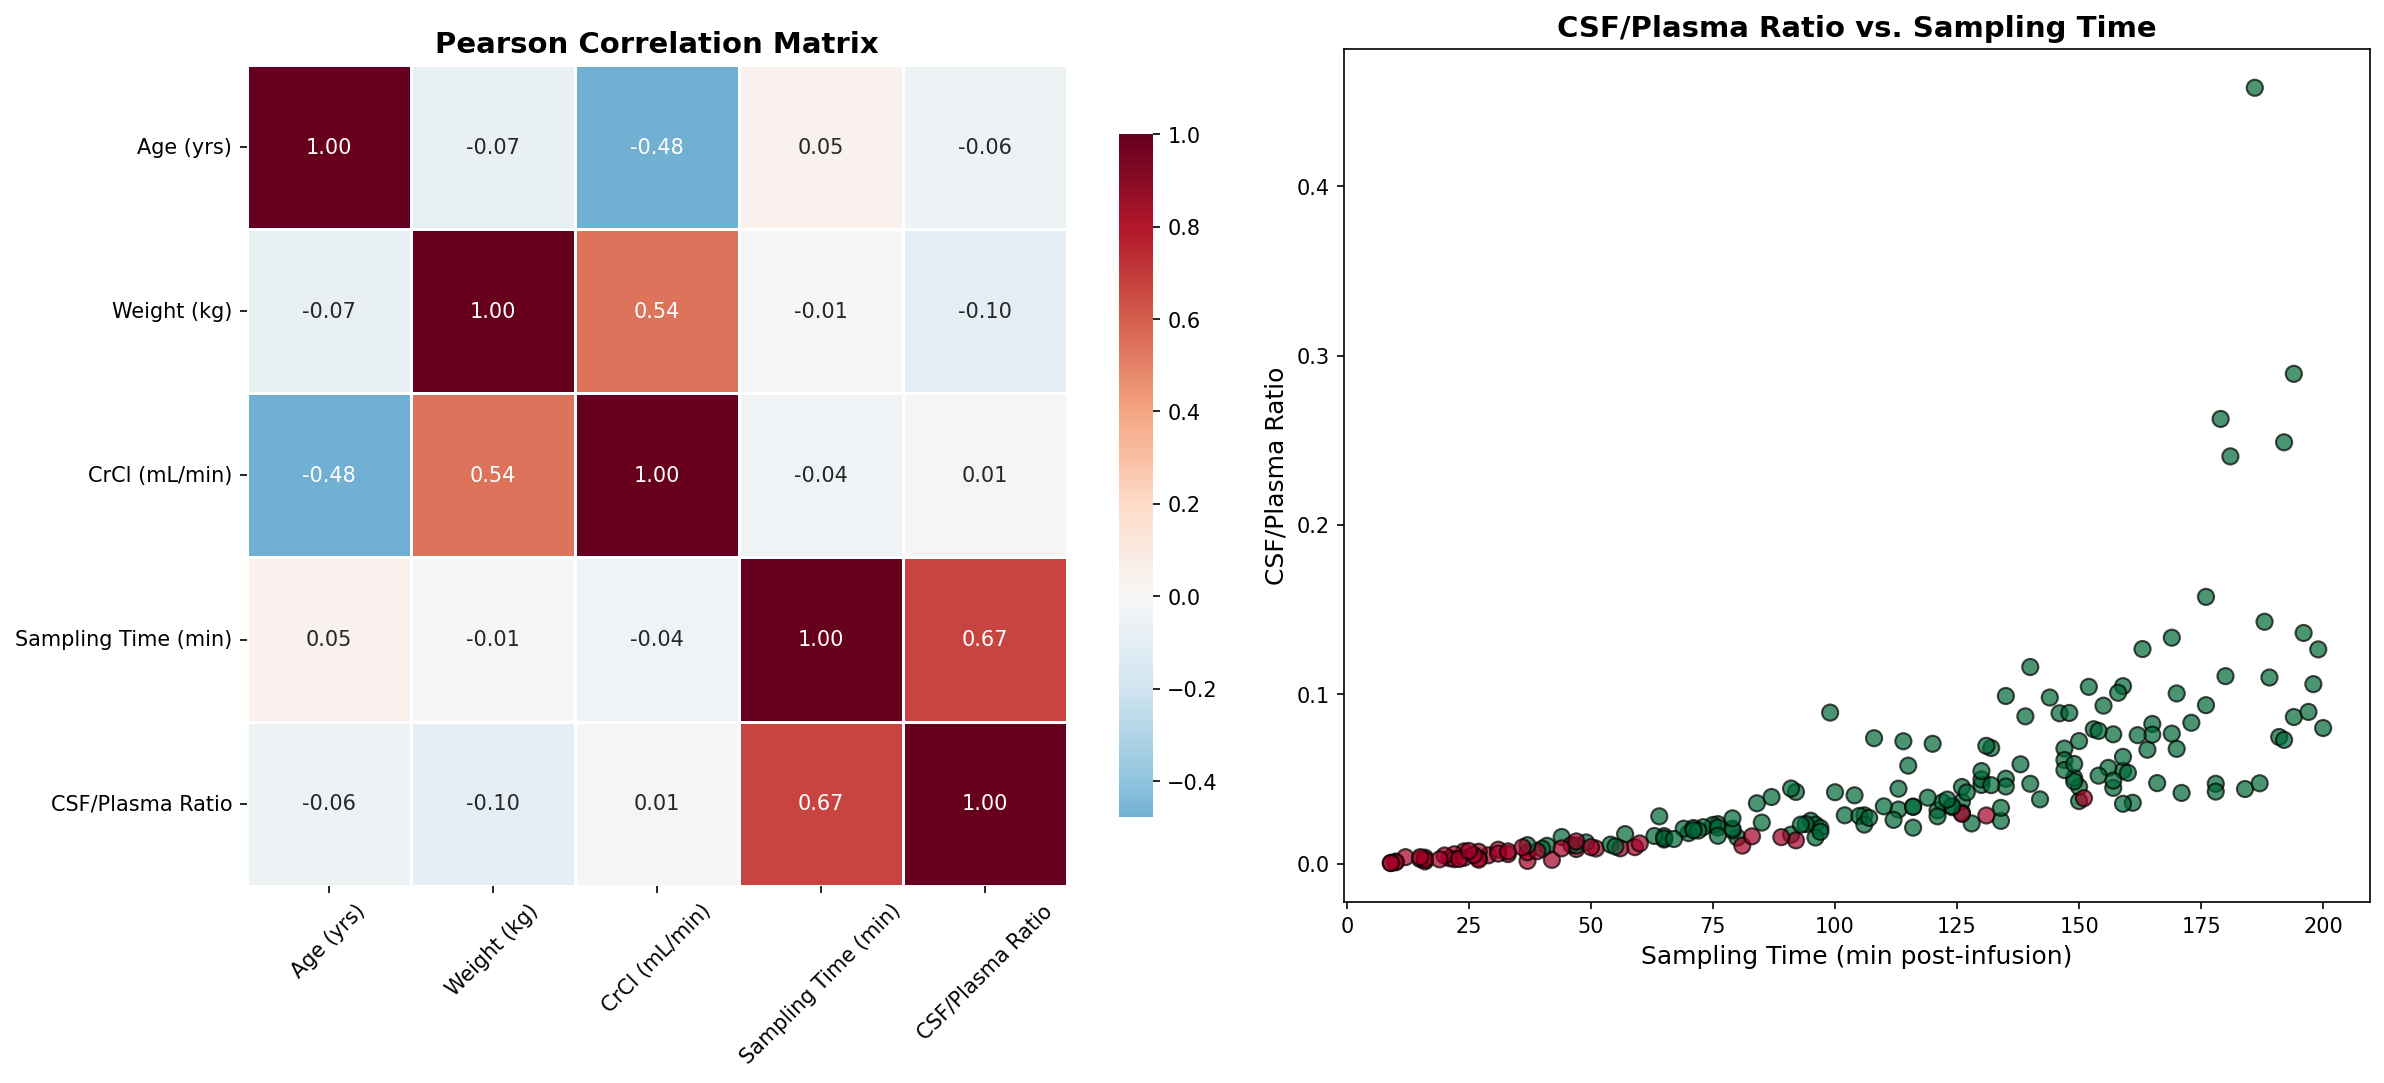
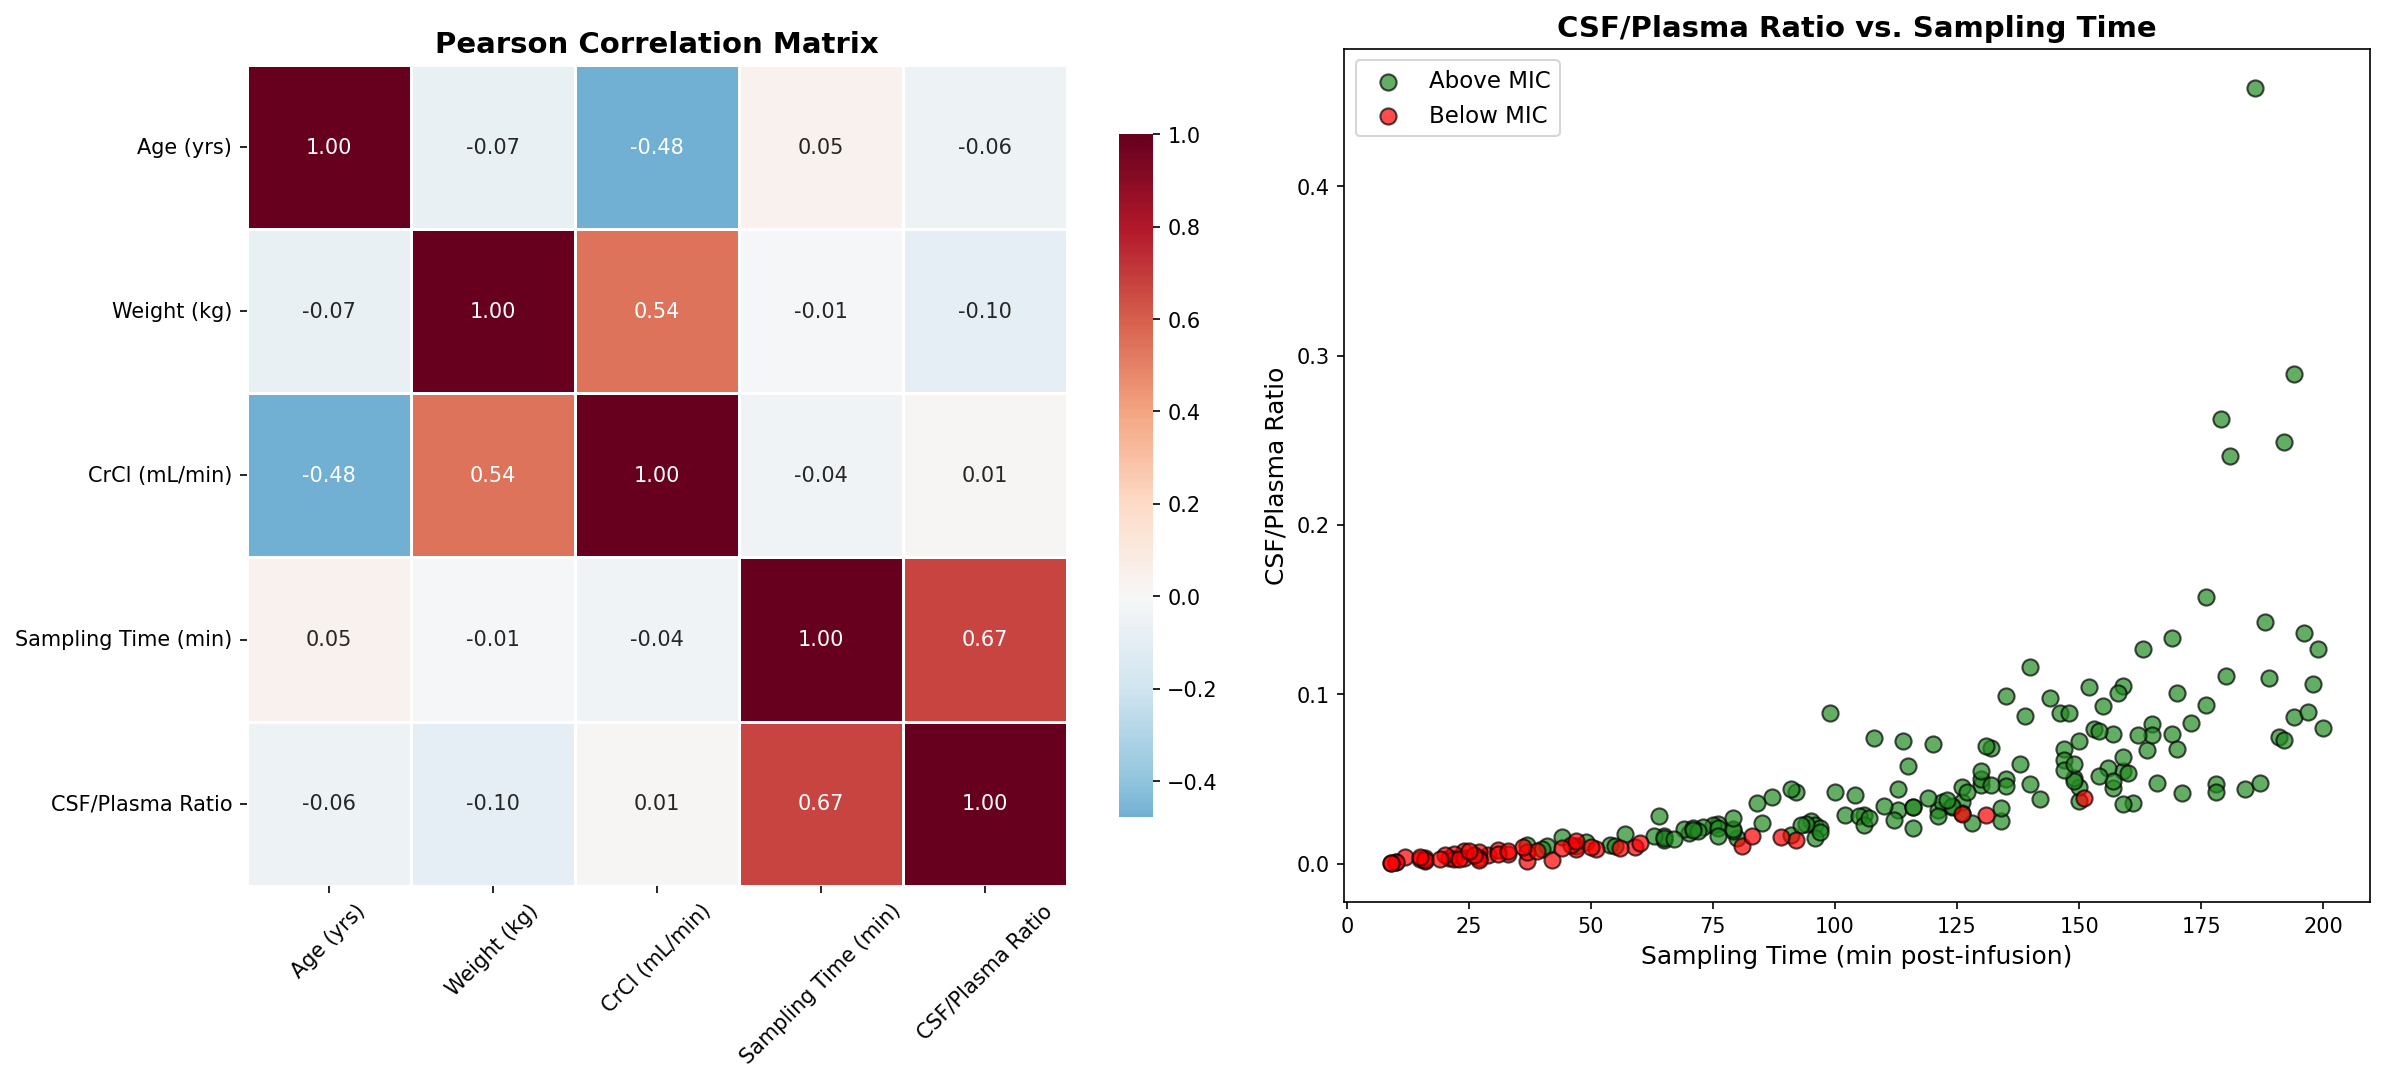
Polish figures and README for presentation readability
Added Above/Below MIC legend to Figure 1 scatter plot. Increased
Figure 3 OLS table height for improved readability. Appended language
attribution (Python/R) to figure captions. Clarified derived variable
roles in dataset description. Corrected Output Files table description.

Changed region(s): [[0.5587, 0.6094, 0.9622, 0.8227], [0.5587, 0.0609, 0.6518, 0.1219], [0.9312, 0.6094, 0.9622, 0.6399]]

diff --git a/analysis.py b/analysis.py
@@ -109,12 +109,16 @@ sns.heatmap(corr_display, annot=True, fmt=".2f", cmap="RdBu_r", center=0,
 axes[0].set_title("Pearson Correlation Matrix", fontsize=14, fontweight="bold")
 axes[0].tick_params(axis="x", rotation=45)
 
-axes[1].scatter(df["sampling_time_min"], df["csf_plasma_ratio"],
-                c=df["therapeutic_threshold_met"], cmap="RdYlGn",
-                edgecolors="black", alpha=0.7, s=60)
+above = df["therapeutic_threshold_met"] == 1
+below = df["therapeutic_threshold_met"] == 0
+axes[1].scatter(df.loc[above, "sampling_time_min"], df.loc[above, "csf_plasma_ratio"],
+                c="forestgreen", edgecolors="black", alpha=0.7, s=60, label="Above MIC")
+axes[1].scatter(df.loc[below, "sampling_time_min"], df.loc[below, "csf_plasma_ratio"],
+                c="red", edgecolors="black", alpha=0.7, s=60, label="Below MIC")
 axes[1].set_xlabel("Sampling Time (min post-infusion)", fontsize=12)
 axes[1].set_ylabel("CSF/Plasma Ratio", fontsize=12)
 axes[1].set_title("CSF/Plasma Ratio vs. Sampling Time", fontsize=14, fontweight="bold")
+axes[1].legend(fontsize=11)
 
 plt.tight_layout()
 plt.savefig("figure1_correlation_analysis.png", dpi=150, bbox_inches="tight")

diff --git a/README.md b/README.md
@@ -17,7 +17,7 @@ Whereas the original paper established preliminary evidence that doripenem penet
 
 > **Disclaimer:** This dataset is entirely simulated and all findings are derived from synthetic data. The results presented herein are not validated against clinical observations and must not be used to inform clinical decision-making in any capacity. The purpose of this project is to demonstrate proficiency in applying statistical analysis methodologies (correlation, regression, ROC analysis) to neurosurgical pharmacokinetic datasets using Python and R.
 
-**Variables:** age, weight, creatinine clearance, sampling time post-infusion, plasma concentration (µg/mL), CSF concentration (µg/mL), CSF/plasma ratio.
+**Variables:** age, weight, creatinine clearance, sampling time post-infusion, CSF/plasma ratio. Plasma concentration (µg/mL) and CSF concentration (µg/mL) were used to derive the CSF/plasma ratio and the binary therapeutic threshold (CSF ≥ 0.25 µg/mL).
 
 ## Analyses
 
@@ -44,19 +44,19 @@ The model achieved an AUC of 0.954 on ROC analysis, indicating excellent discrim
 
 ### Figures
 
-**Figure 1 — Correlation Analysis** — Pearson correlation heatmap and CSF/plasma ratio vs. sampling time:
+**Figure 1 — Correlation Analysis (Python)** — Pearson correlation heatmap and CSF/plasma ratio vs. sampling time:
 ![Correlation Analysis](figure1_correlation_analysis.png)
 
-**Figure 2 — Comprehensive P-Value Summary** — All statistical tests and their p-values across Spearman correlations, OLS regression, and logistic regression:
+**Figure 2 — Comprehensive P-Value Summary (Python)** — All statistical tests and their p-values across Spearman correlations, OLS regression, and logistic regression:
 ![P-Value Summary](figure2_pvalue_summary.png)
 
-**Figure 3 — OLS Regression Summary** — Coefficients, standard errors, t-statistics, and confidence intervals (R² = 0.47):
+**Figure 3 — OLS Regression Summary (R)** — Coefficients, standard errors, t-statistics, and confidence intervals (R² = 0.47):
 ![OLS Summary](figure3_ols_summary.png)
 
-**Figure 4 — Odds Ratios with Forest Plot** — Odds ratios with 95% confidence intervals for predictors of therapeutic threshold achievement:
+**Figure 4 — Odds Ratios with Forest Plot (Python)** — Odds ratios with 95% confidence intervals for predictors of therapeutic threshold achievement:
 ![Odds Ratios](figure4_odds_ratios.png)
 
-**Figure 5 — ROC Curve & Predicted Probability** — Model discrimination performance and predicted therapeutic achievement by sampling time:
+**Figure 5 — ROC Curve & Predicted Probability (R)** — Model discrimination performance and predicted therapeutic achievement by sampling time:
 ![Logistic Regression](figure5_logistic_regression.png)
 
 ## How to Run
@@ -99,7 +99,7 @@ Both produce console output with full statistical results. Figures are split bet
 | File | Description | Generated by |
 |---|---|---|
 | `doripenem_bbb_synthetic_data.csv` | Synthetic dataset (n=200) | Python |
-| `figure1_correlation_analysis.png` | Pearson heatmap + CSF vs. time scatter | Python |
+| `figure1_correlation_analysis.png` | Pearson heatmap + CSF/plasma ratio vs. time scatter | Python |
 | `figure2_pvalue_summary.png` | Comprehensive p-value table across all tests | Python |
 | `figure3_ols_summary.png` | Full OLS regression summary table | R |
 | `figure4_odds_ratios.png` | Odds ratios with forest plot | Python |
